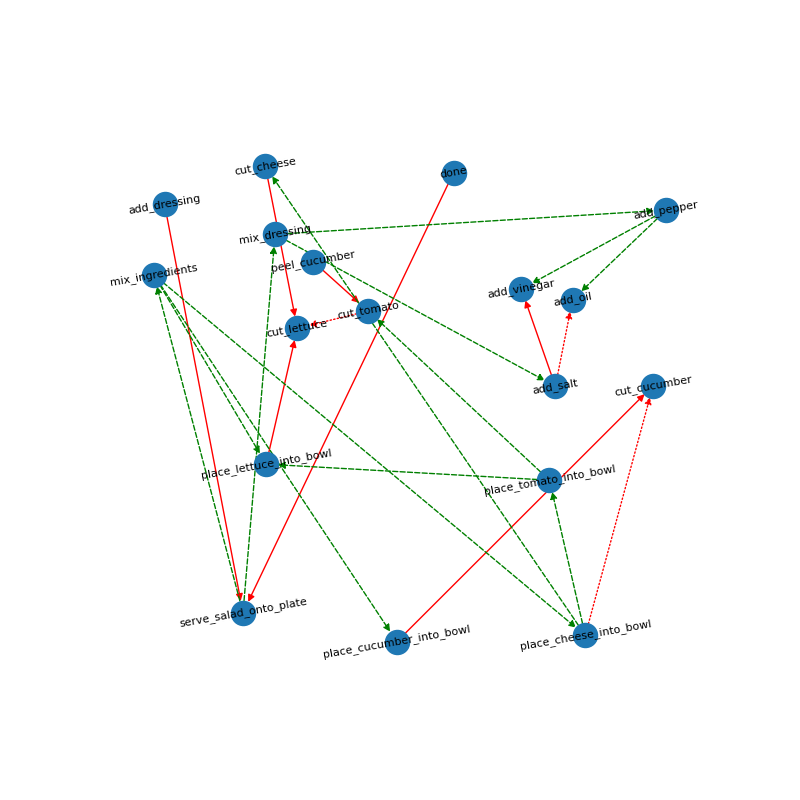
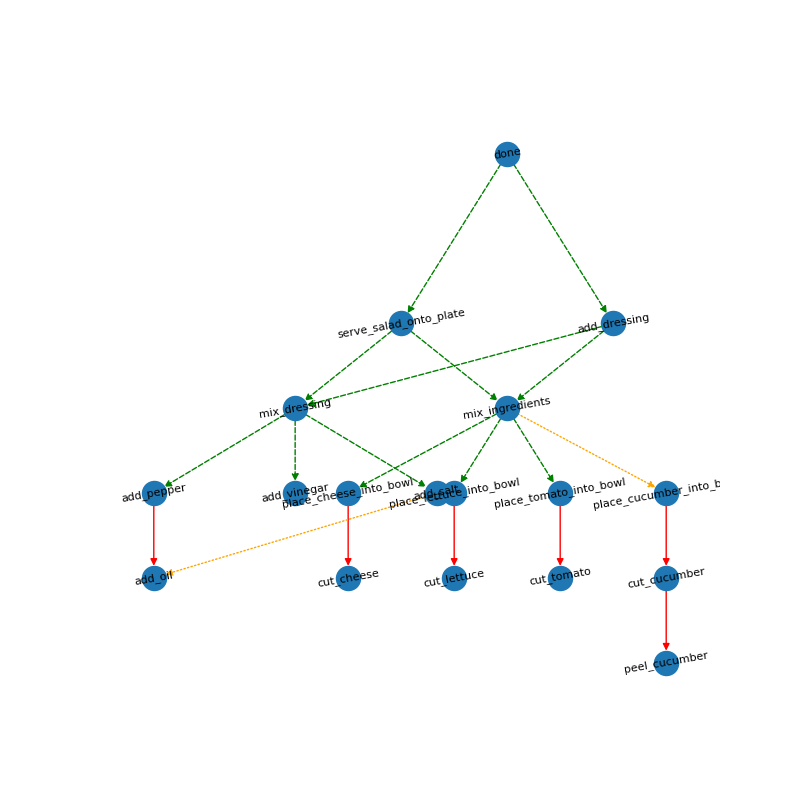
Friday update

diff --git a/graph_construct/combined_graph_new.py b/graph_construct/combined_graph_new.py
@@ -32,7 +32,7 @@ def get_action_list(annotation_file):
 
     return refined_actions
 
-def hierarchy_pos_1(G, root=None, width=5., vert_gap=2., vert_loc=0, xcenter=0.5):
+def hierarchy_pos_1(G, root=None, width=5., vert_gap=2., vert_loc=0, xcenter=5):
     # From https://stackoverflow.com/questions/29586520/can-one-get-hierarchical-graphs-from-networkx-with-python-3/29597209#29597209
     if root is None:
         if isinstance(G, nx.DiGraph):
@@ -176,7 +176,6 @@ def draw_graph(graph):
                     node.add_child(child_node)
 
     for i, node in enumerate(graph.get_node_list(lambda x : x.num_highers())):
-        print(node)
         for higher in node.get_highers():
             if node not in higher.get_childs():
                 if not higher.can_reach(node, []):
@@ -188,7 +187,7 @@ def draw_graph(graph):
     edgelist = DG.edges(data=True)
 
     try:
-        pos = hierarchy_pos_2(DG, 'done')
+        pos = hierarchy_pos_1(DG, 'done')
         nx.draw_networkx_nodes(DG, pos=pos)
     except:
         # pos = nx.kamada_kawai_layout(DG)
@@ -197,7 +196,7 @@ def draw_graph(graph):
         nx.draw_networkx_nodes(DG, pos=pos)
     
 
-    for edge_type, style, color in [('1', 'solid', 'red'), ('2', 'dashed', 'green'), ('3', 'dotted', 'red'), ('4', 'dotted', 'blue')]:
+    for edge_type, style, color in [('1', 'solid', 'red'), ('2', 'dashed', 'green'), ('3', 'dotted', 'orange'), ('4', 'dotted', 'blue')]:
         edges = [(u, v) for (u, v, d) in edgelist if d["edge_type"] == edge_type]
         nx.draw_networkx_edges(DG, pos=pos, edgelist=edges, style=style, edge_color=color)
     
@@ -217,17 +216,21 @@ GRAPH_WIDTH = 8
 FONT_SIZE = 8
 EDGE_COLOR = "green"
 
-# plot_list = ["13-1", "17-2", "09-1"]
+plot_list = ["13-1", "17-2", "09-1"]
 # plot_list = ["07-1", "13-1", "15-2"]
 
-# plot_list = ["01-2", "03-1"]
-# plot_list = ["01-1"]
+# plot_list = ['03-1', '07-1', '25-2']
+# plot_list = ['16-2', '19-1', '10-2']
+# plot_list = ['05-1']
 
-plot_list = ["{:02}-{}".format(i, j) for i in range(1,28) for j in [1, 2]]
-random.shuffle(plot_list)
-plot_list = plot_list[:30]
 
-# individual_graph.main(plot_list)
+# plot_list = ["{:02}-{}".format(i, j) for i in range(1,28) for j in [1, 2]]
+# random.shuffle(plot_list)
+# plot_list = plot_list[:3]
+
+individual_graph.main(plot_list)
+
+print(plot_list)
 
 all_action_list = []
 for idx, plot_file in enumerate(plot_list):
